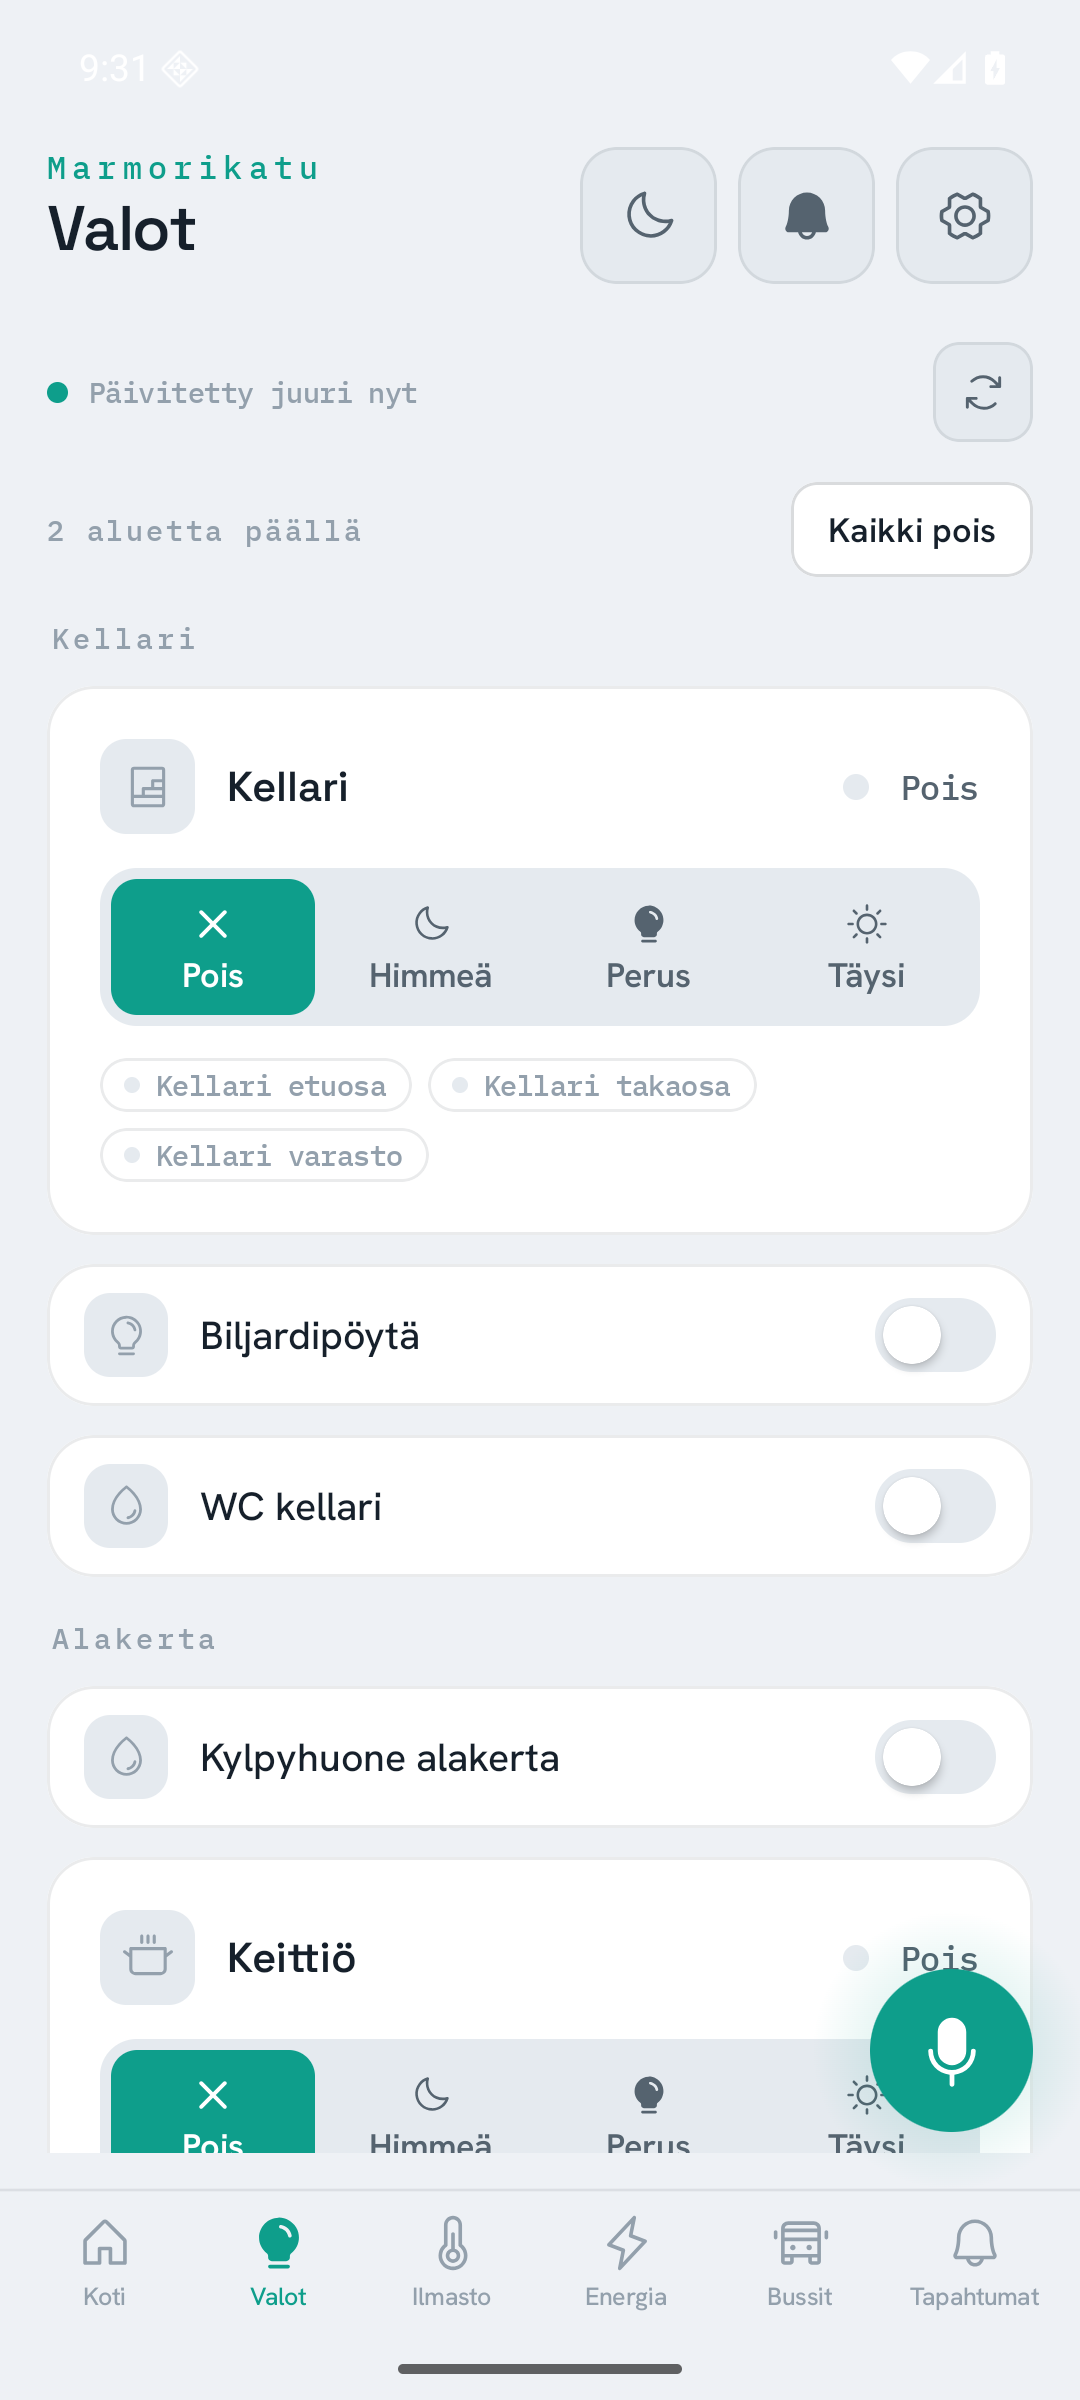
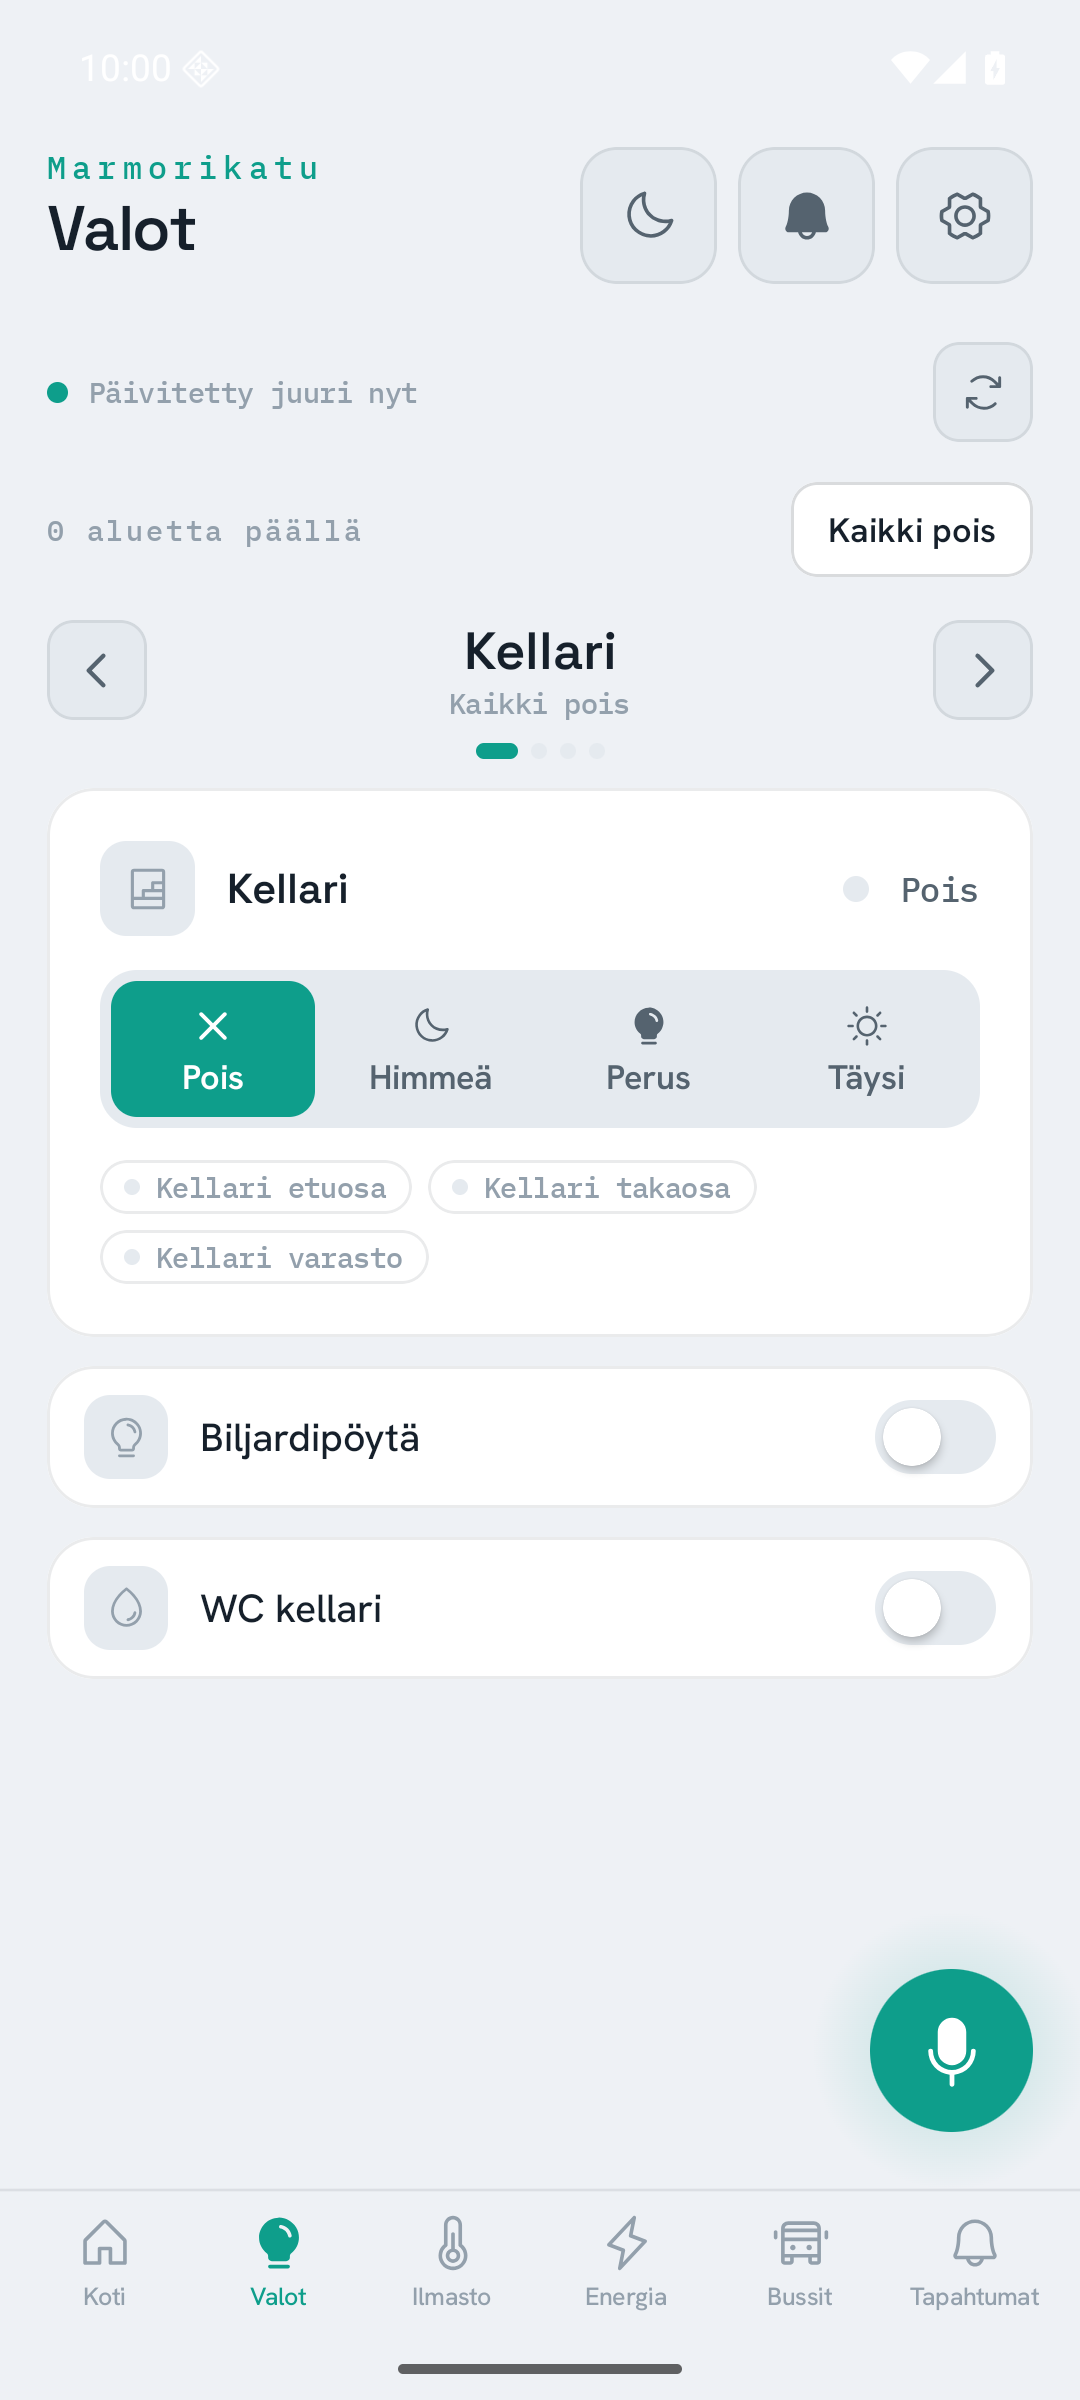
Page Valot by floor with a floor selector
Valot now shows one floor at a time with a prev/next floor selector (arrows +
page dots + on-count), per the design's paged-floor layout. Uses the existing
floor grouping; arrow navigation avoids a nested horizontal-swipe conflict with
the tab pager. isOn() promoted to a top-level internal helper for reuse.

Claude-Session: https://claude.ai/code/session_01YUx3xkCw8ajvZdByZ9WnmA

diff --git a/composeApp/src/commonMain/kotlin/fi/marmorikatu/app/screens/ValotScreen.kt b/composeApp/src/commonMain/kotlin/fi/marmorikatu/app/screens/ValotScreen.kt
@@ -3,19 +3,27 @@ package fi.marmorikatu.app.screens
 import androidx.compose.foundation.background
 import androidx.compose.foundation.layout.Arrangement
 import androidx.compose.foundation.layout.Box
+import androidx.compose.foundation.layout.Column
 import androidx.compose.foundation.layout.Row
+import androidx.compose.foundation.layout.defaultMinSize
 import androidx.compose.foundation.layout.fillMaxSize
 import androidx.compose.foundation.layout.fillMaxWidth
+import androidx.compose.foundation.layout.height
 import androidx.compose.foundation.layout.padding
 import androidx.compose.foundation.lazy.LazyColumn
 import androidx.compose.foundation.lazy.items
+import androidx.compose.foundation.shape.RoundedCornerShape
 import androidx.compose.material3.Text
 import androidx.compose.runtime.Composable
 import androidx.compose.runtime.LaunchedEffect
 import androidx.compose.runtime.collectAsState
 import androidx.compose.runtime.getValue
+import androidx.compose.runtime.mutableStateOf
+import androidx.compose.runtime.remember
+import androidx.compose.runtime.setValue
 import androidx.compose.ui.Alignment
 import androidx.compose.ui.Modifier
+import androidx.compose.ui.draw.clip
 import androidx.compose.ui.graphics.vector.ImageVector
 import androidx.compose.ui.text.font.FontWeight
 import androidx.compose.ui.unit.dp
@@ -27,11 +35,13 @@ import fi.marmorikatu.app.components.MkButton
 import fi.marmorikatu.app.components.MkButtonSize
 import fi.marmorikatu.app.components.MkButtonVariant
 import fi.marmorikatu.app.components.MkFreshness
+import fi.marmorikatu.app.components.MkIconButton
 import fi.marmorikatu.app.components.MkLight
 import fi.marmorikatu.app.components.MkLightMode
 import fi.marmorikatu.app.components.MkLightRow
 import fi.marmorikatu.app.components.MkPullToRefresh
 import fi.marmorikatu.app.icons.MkIcons
+import fi.marmorikatu.app.theme.MkRadius
 import fi.marmorikatu.app.theme.MkSpacing
 import fi.marmorikatu.app.theme.MkTheme
 import fi.marmorikatu.core.model.Light
@@ -52,6 +62,9 @@ fun ValotScreen(
     val refreshing by viewModel.refreshing.collectAsState()
     val updatedAt by viewModel.updatedAt.collectAsState()
     val colors = MkTheme.colors
+
+    // Show one floor at a time (design: paged by floor with a selector).
+    var floorIndex by remember { mutableStateOf(0) }
 
     LaunchedEffect(Unit) { viewModel.refresh() }
 
@@ -115,13 +128,16 @@ fun ValotScreen(
                 }
             }
 
-            state.floors.forEach { section ->
-                item(key = "floor:${section.label}") {
-                    Text(
-                        text = section.label,
-                        style = MkTheme.type.readout(11).copy(letterSpacing = 0.14.em),
-                        color = colors.inkLo,
-                        modifier = Modifier.padding(start = 2.dp, top = 5.dp),
+            if (state.floors.isNotEmpty()) {
+                val idx = floorIndex.coerceIn(0, state.floors.size - 1)
+                val section = state.floors[idx]
+                item(key = "floor-nav") {
+                    FloorSelector(
+                        label = section.label,
+                        onCount = section.areas.count { it.isOn() },
+                        index = idx,
+                        count = state.floors.size,
+                        onSelect = { floorIndex = it },
                     )
                 }
                 items(section.areas, key = { it.key }) { area ->
@@ -130,6 +146,55 @@ fun ValotScreen(
                         is AreaUi.SingleLight -> SingleLightRow(area.light, viewModel)
                     }
                 }
+            }
+        }
+    }
+}
+
+/** Floor pager header: prev/next arrows, the floor name + how many areas are on, and page dots. */
+@Composable
+private fun FloorSelector(label: String, onCount: Int, index: Int, count: Int, onSelect: (Int) -> Unit) {
+    val c = MkTheme.colors
+    Column(
+        modifier = Modifier.fillMaxWidth().padding(top = 4.dp),
+        verticalArrangement = Arrangement.spacedBy(8.dp),
+        horizontalAlignment = Alignment.CenterHorizontally,
+    ) {
+        Row(
+            modifier = Modifier.fillMaxWidth(),
+            verticalAlignment = Alignment.CenterVertically,
+            horizontalArrangement = Arrangement.SpaceBetween,
+        ) {
+            MkIconButton(
+                icon = MkIcons.CaretLeft,
+                label = "Edellinen kerros",
+                onClick = { onSelect((index - 1 + count) % count) },
+                enabled = count > 1,
+            )
+            Column(horizontalAlignment = Alignment.CenterHorizontally) {
+                Text(label, style = MkTheme.type.heading, color = c.inkHi, maxLines = 1)
+                Text(
+                    text = if (onCount > 0) "$onCount aluetta päällä" else "Kaikki pois",
+                    style = MkTheme.type.readout(11),
+                    color = if (onCount > 0) c.accent else c.inkLo,
+                )
+            }
+            MkIconButton(
+                icon = MkIcons.CaretRight,
+                label = "Seuraava kerros",
+                onClick = { onSelect((index + 1) % count) },
+                enabled = count > 1,
+            )
+        }
+        Row(horizontalArrangement = Arrangement.spacedBy(5.dp)) {
+            repeat(count) { i ->
+                Box(
+                    modifier = Modifier
+                        .height(6.dp)
+                        .defaultMinSize(minWidth = if (i == index) 16.dp else 6.dp)
+                        .clip(RoundedCornerShape(MkRadius.round))
+                        .background(if (i == index) c.accent else c.track),
+                )
             }
         }
     }

diff --git a/composeApp/src/commonMain/kotlin/fi/marmorikatu/app/screens/ValotViewModel.kt b/composeApp/src/commonMain/kotlin/fi/marmorikatu/app/screens/ValotViewModel.kt
@@ -29,6 +29,12 @@ data class ValotUiState(
 /** One floor's section: a header label and the areas under it. */
 data class FloorSection(val label: String, val areas: List<AreaUi>)
 
+/** Whether an area has any light on — a scene above Off, or a lit single fixture. */
+internal fun AreaUi.isOn(): Boolean = when (this) {
+    is AreaUi.SceneArea -> level != LightLevel.Off
+    is AreaUi.SingleLight -> light.displayedOn
+}
+
 /** An area is either a multi-light scene card or a lone light row. */
 sealed interface AreaUi {
     val key: String
@@ -178,11 +184,6 @@ class ValotViewModel(
             }
             FloorSection(label = floor.label, areas = items)
         }
-
-    private fun AreaUi.isOn(): Boolean = when (this) {
-        is AreaUi.SceneArea -> level != LightLevel.Off
-        is AreaUi.SingleLight -> light.displayedOn
-    }
 
     private companion object {
         fun ceilHalf(size: Int): Int = (size + 1) / 2